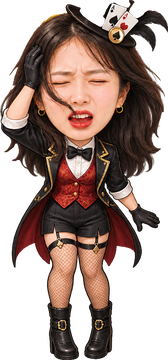
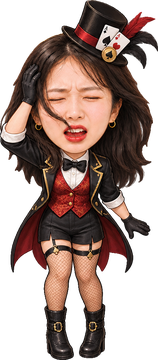
도박사 스프라이트 재추출(모자 복원)·15% 확대, 게임오버에도 직업 선택 (v1.1.26)
- birefnet 모델로 다시 분리 — 오른쪽·피격 포즈의 모자 잘림 해결
- 모자·머리숱 몫만큼 몸이 작아 보여서 백수 대비 15% 확대
- 다시 하기 화면에 직업 버튼 추가 (양쪽 화면 선택이 함께 동기화)

diff --git a/index.html b/index.html
@@ -143,7 +143,7 @@
   #startName:focus { outline: none; border-color: #ffd23f; }
 
   /* ---- 직업 선택 ---- */
-  #jobRow { display: flex; gap: 8px; }
+  .jobRow { display: flex; gap: 8px; justify-content: center; }
   .jobBtn {
     padding: 8px 18px; font-size: 13px; border-radius: 999px;
     background: rgba(255,255,255,.08); color: #b8bdcc;
@@ -439,7 +439,7 @@
         <button id="btnSaveName">저장</button>
       </div>
 
-      <div id="jobRow">
+      <div class="jobRow">
         <button class="jobBtn" data-job="none">🏃 백수</button>
         <button class="jobBtn" data-job="gambler">🎰 도박사</button>
       </div>
@@ -495,6 +495,11 @@
         <div class="note" id="noteOver"></div>
       </div>
 
+      <div class="jobRow">
+        <button class="jobBtn" data-job="none">🏃 백수</button>
+        <button class="jobBtn" data-job="gambler">🎰 도박사</button>
+      </div>
+
       <button id="btnRetry">다시 하기</button>
     </div>
   </div>
@@ -532,7 +537,7 @@
   const elFinal = document.getElementById("finalScore");
   const elTitle = document.getElementById("overTitle");
 
-  const GAME_VERSION = "v1.1.25";   // 코드를 고칠 때마다 뒤 두 자리를 올린다
+  const GAME_VERSION = "v1.1.26";   // 코드를 고칠 때마다 뒤 두 자리를 올린다
   document.getElementById("ver").textContent = GAME_VERSION;
 
   const LS_NAME = "epjpddongpi_name";
@@ -631,9 +636,10 @@
   /* 직업: 도박사 복장 (우주복 이전 구간에서만 입는다).
      head/cx/cy/adj 는 실측값 — 헬멧 대신 얼굴이 판정 기준이다. */
   const SPR_GAMBLER = {
-    left:  { img: null, aspect: 0.519, head: 0.394, cx: 0.519, cy: 0.322, adj: 0.5808 },
-    right: { img: null, aspect: 0.522, head: 0.369, cx: 0.590, cy: 0.319, adj: 0.5446 },
-    hurt:  { img: null, aspect: 0.467, head: 0.402, cx: 0.458, cy: 0.306, adj: 0.6453 }
+    // 모자·머리숱이 커서 같은 몸높이면 작아 보인다 — 15% 키워 백수와 체감을 맞췄다
+    left:  { img: null, aspect: 0.522, head: 0.394, cx: 0.516, cy: 0.314, adj: 0.6691 },
+    right: { img: null, aspect: 0.519, head: 0.369, cx: 0.588, cy: 0.317, adj: 0.6263 },
+    hurt:  { img: null, aspect: 0.439, head: 0.386, cx: 0.475, cy: 0.311, adj: 0.7128 }
   };
   const SPACE_Z = 6;                 // 오로라 지대 — 여기부터 우주복 차림
   /* 우주에 올라서면 체감 난이도를 이 배율만큼 올린다.
